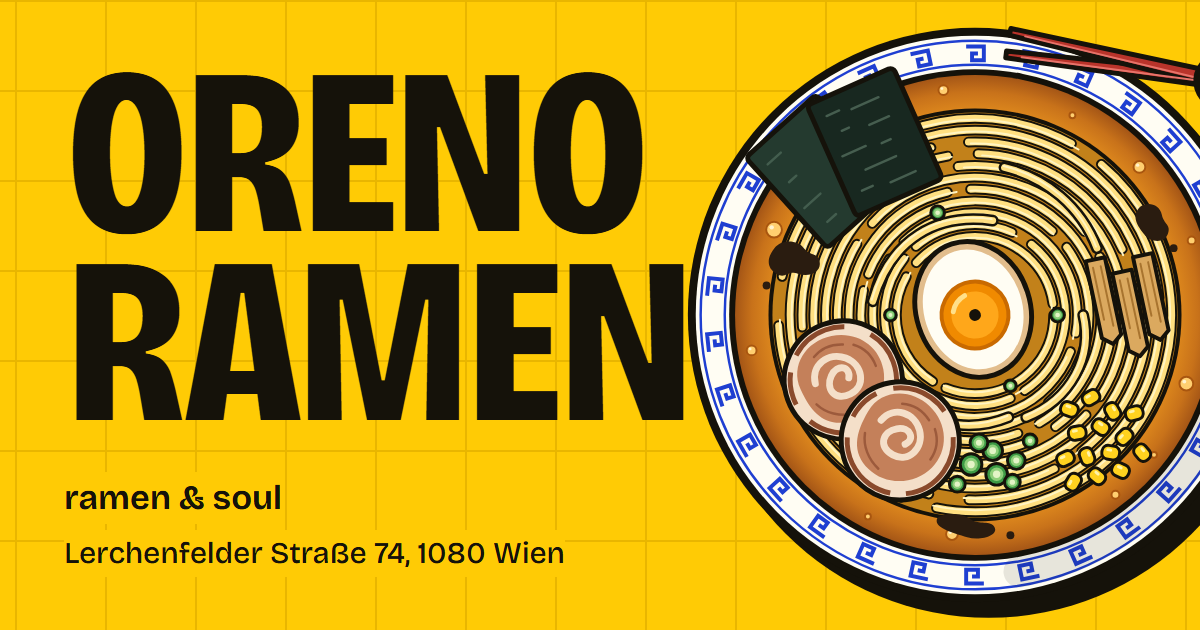
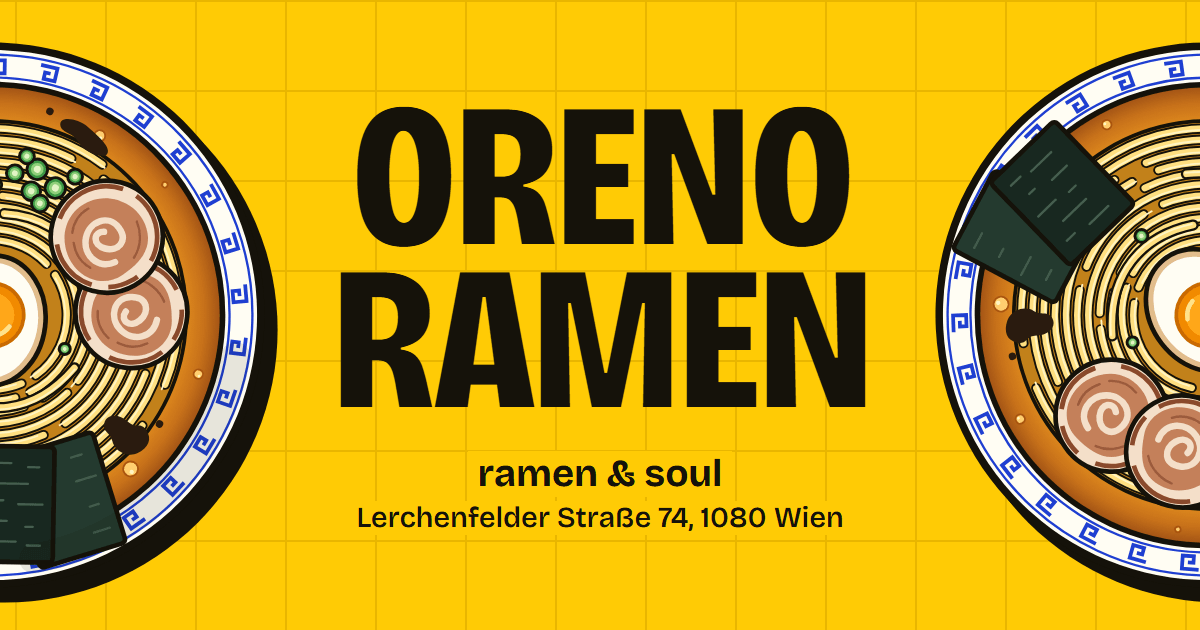
Rework the share preview
Recompose the 1200x630 card so name, tagline and address sit in the middle
square that messengers crop to, shrink it to a palette PNG, and add the
missing Open Graph and Twitter tags per language. Add scripts/og.mjs to
regenerate the image.

diff --git a/README.md b/README.md
@@ -50,4 +50,12 @@ No cookies, no trackers, no third-party requests. The only thing stored in the b
 
 ## Share image
 
-`public/og.png` is the picture shown when someone shares a link to the site. It is a screenshot of the page at `/og/`. To refresh it after changing the bowl or the colours, run `npm run build`, `npm run preview`, open `/og/` in a 1200 × 630 window and save the screenshot over `public/og.png`.
+`public/og.png` is the picture shown when someone shares a link to the site. It is a screenshot of the page at `/og/`. To refresh it after changing the bowl or the colours:
+
+```
+npm run build
+npm run preview
+node scripts/og.mjs http://localhost:4321/og/
+```
+
+The script needs Chrome or Edge. Name, tagline and address sit in the middle square of the card on purpose: several messengers crop previews to a centred square.
